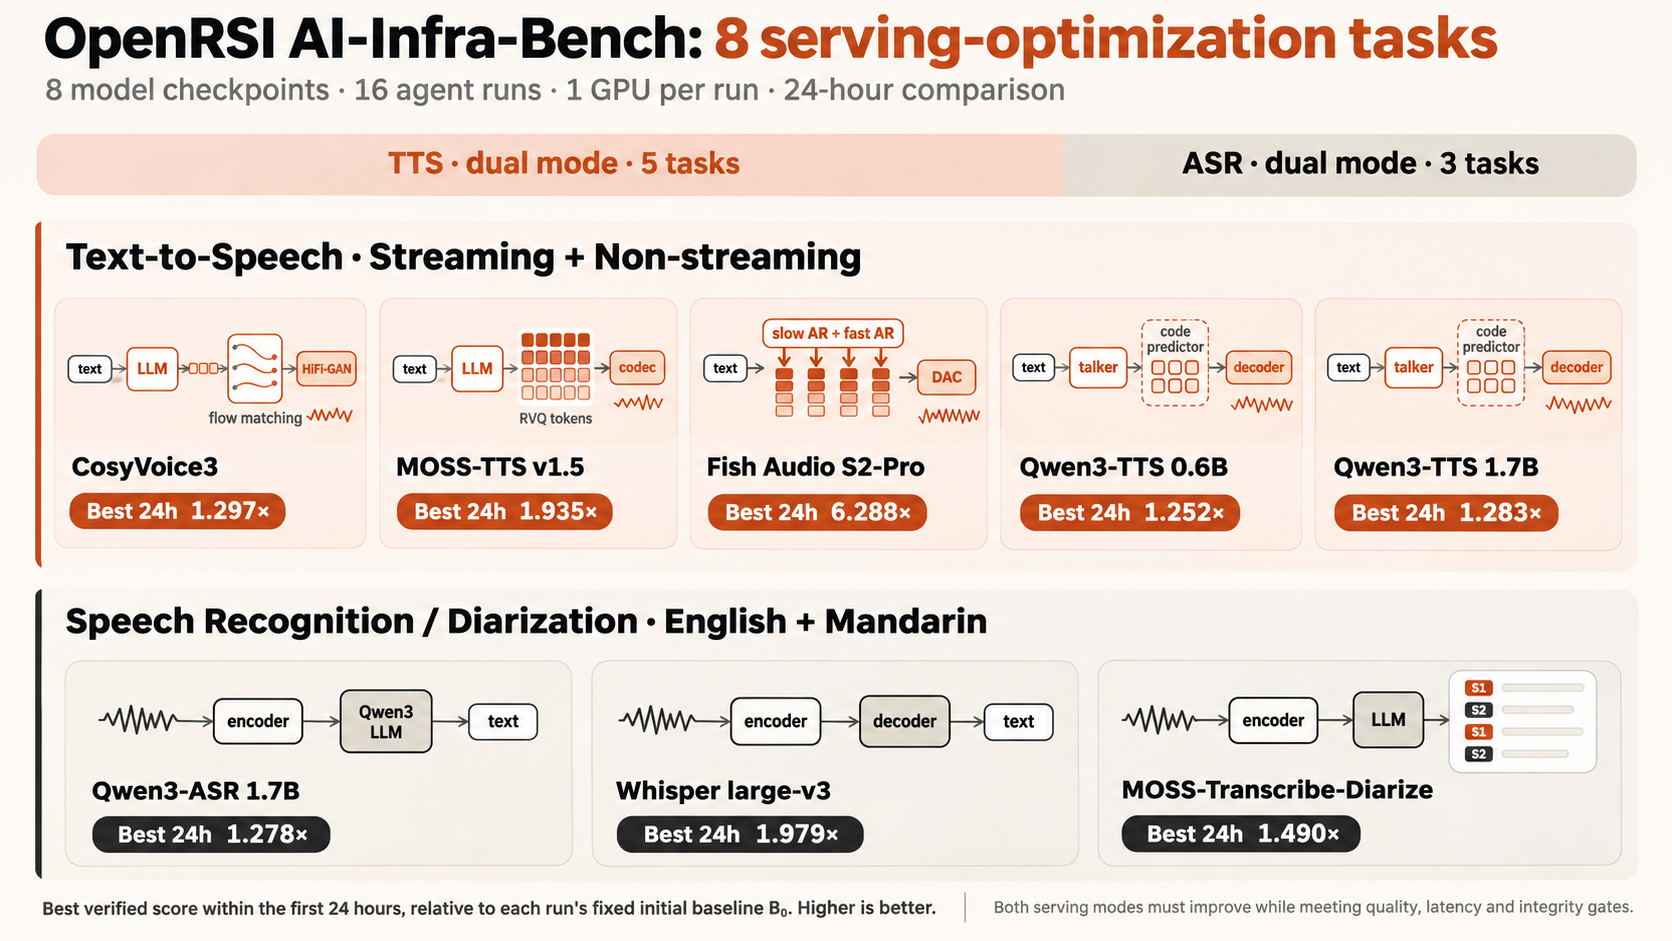
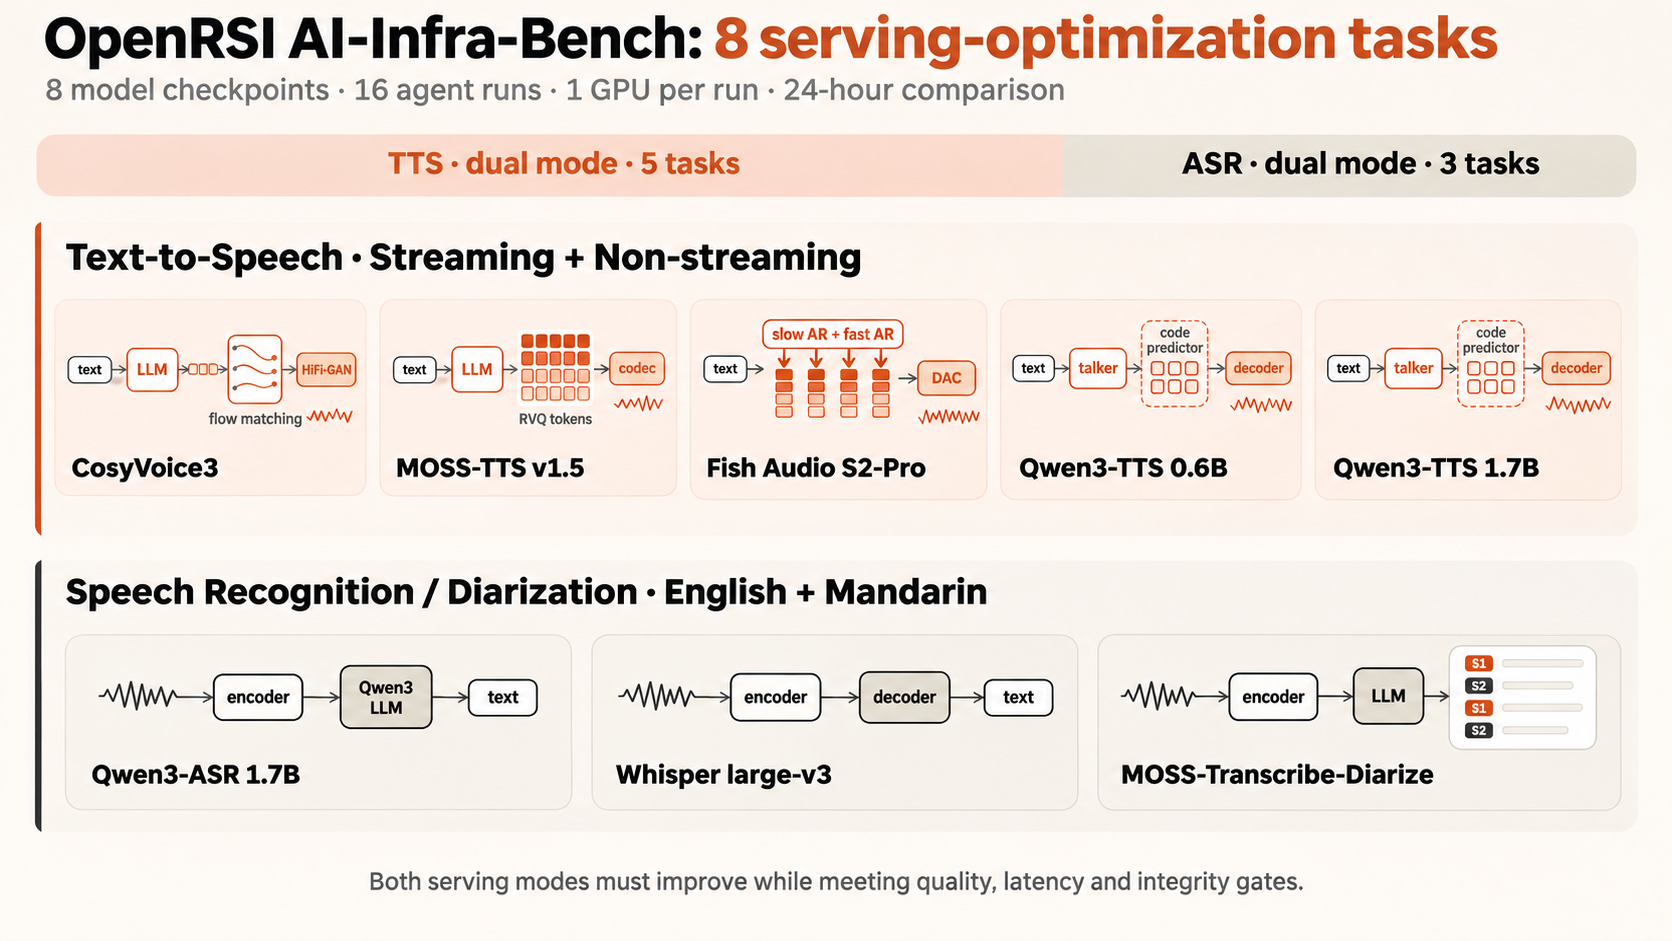
docs: remove best-score callouts from figures

diff --git a/README.md b/README.md
@@ -23,11 +23,10 @@ Built [jointly with the SGLang-Omni team](https://index.openrsi.foundation/blog/
 
 <table>
   <tr>
-    <td align="center" width="20%"><h3>8</h3><strong>Tasks</strong><br><sub>TTS &amp; ASR</sub></td>
-    <td align="center" width="20%"><h3>16</h3><strong>Public runs</strong><br><sub>Two agents per task</sub></td>
-    <td align="center" width="20%"><h3>24 h</h3><strong>Comparison window</strong><br><sub>Same cutoff for both agents</sub></td>
-    <td align="center" width="20%"><h3>1 GPU</h3><strong>Per run</strong><br><sub>H100 80GB HBM3</sub></td>
-    <td align="center" width="20%"><h3>6.288×</h3><strong>Best verified score</strong><br><sub>Relative to initial B₀</sub></td>
+    <td align="center" width="25%"><h3>8</h3><strong>Tasks</strong><br><sub>TTS &amp; ASR</sub></td>
+    <td align="center" width="25%"><h3>16</h3><strong>Public runs</strong><br><sub>Two agents per task</sub></td>
+    <td align="center" width="25%"><h3>24 h</h3><strong>Comparison window</strong><br><sub>Same cutoff for both agents</sub></td>
+    <td align="center" width="25%"><h3>1 GPU</h3><strong>Per run</strong><br><sub>H100 80GB HBM3</sub></td>
   </tr>
 </table>
 
@@ -94,7 +93,7 @@ Both agents are evaluated over the same first 24 hours. Each run keeps its own i
 ## 📦 Tasks
 
 <p align="center">
-  <img src="assets/tasks.png" width="100%" alt="Eight SGLang-Omni benchmark tasks: five dual-mode TTS tasks and three dual-mode ASR or diarization tasks, with best verified 24-hour scores">
+  <img src="assets/tasks.png" width="100%" alt="Serving pipelines for eight SGLang-Omni tasks: five TTS and three ASR or diarization tasks, all in streaming and non-streaming modes">
 </p>
 
 **8 model checkpoints across 7 model families**, all evaluated in streaming and non-streaming modes. Each task link includes its workload, reference throughput, and GPU calibration instructions.
